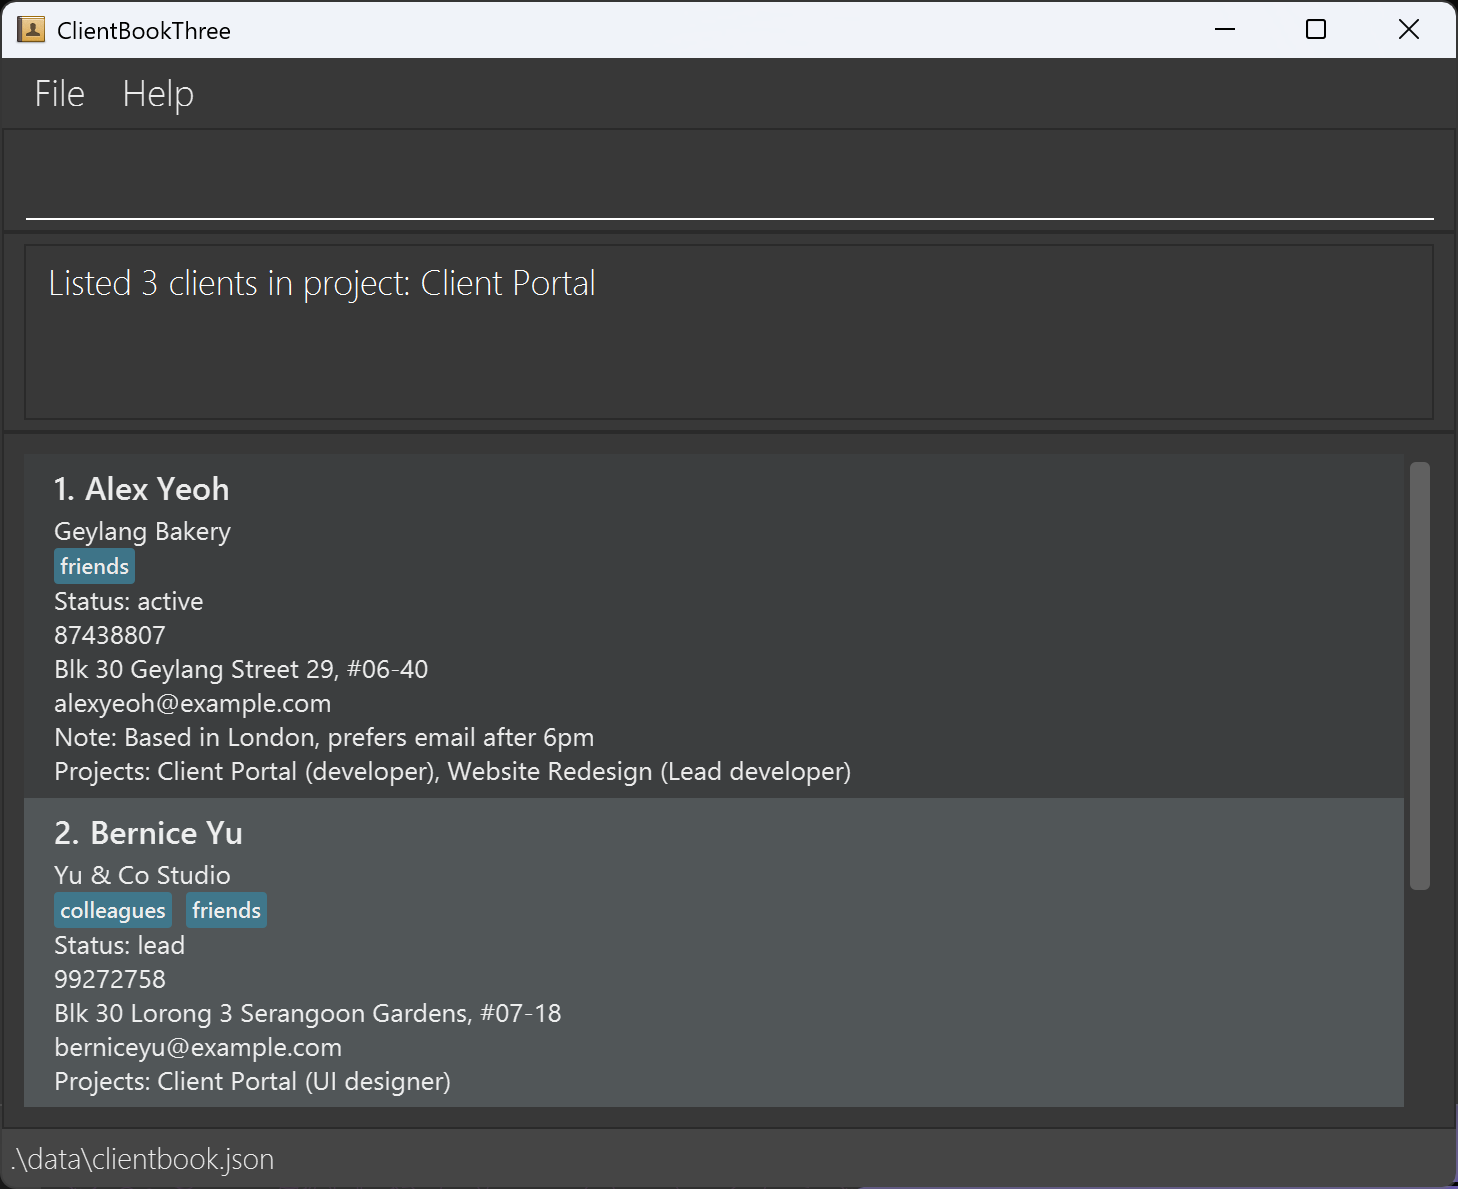
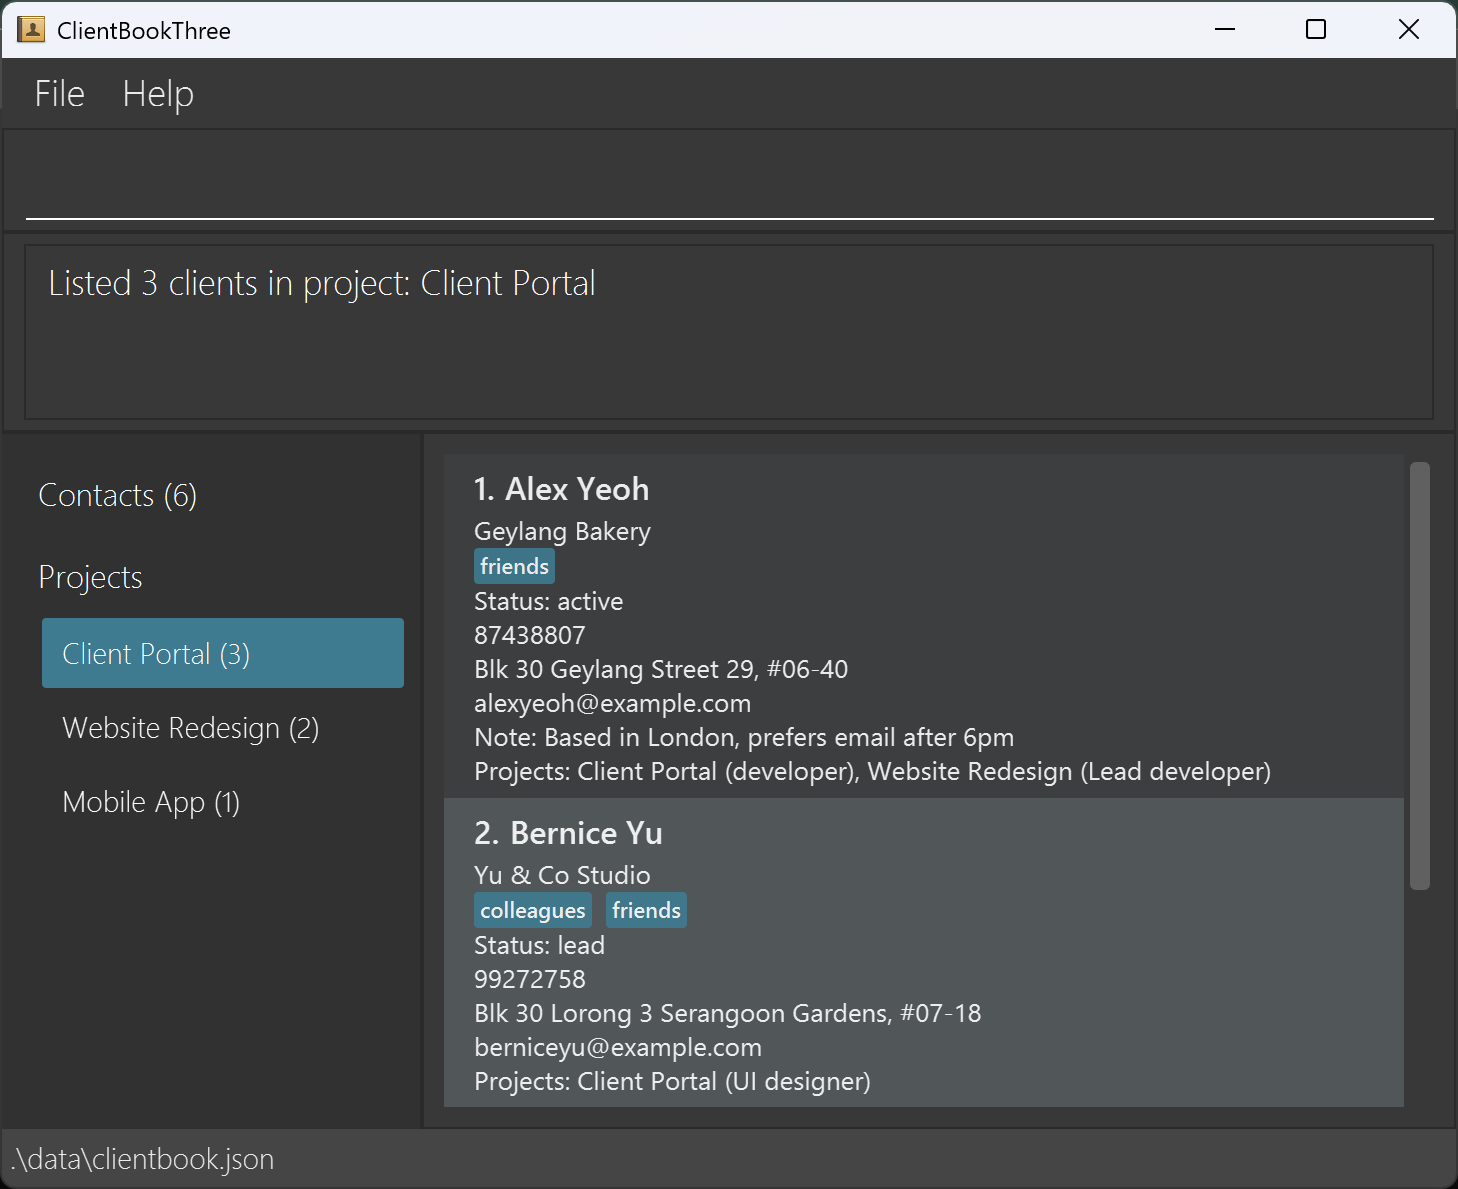
Show the project sidebar in the screenshots and the UG
The landing page and Quick Start screenshots were taken before the
project sidebar (#101) was added, so they no longer matched the app,
and the UG didn't explain the sidebar.

Let's retake both screenshots with the sidebar, and add a UG section
saying what clicking Contacts or a project does.

diff --git a/docs/UserGuide.md b/docs/UserGuide.md
@@ -20,7 +20,7 @@ ClientBookThree is a **desktop app for freelance software developers to keep tra
 1. Copy the file to the folder you want to use as the _home folder_ for ClientBookThree. Your data is saved in a `data` folder inside it.
 
 1. Open a terminal, `cd` to the folder containing the JAR file, and run `java -jar clientbook.jar`.<br>
-   A window similar to the one below should appear in a few seconds. It starts with some sample contacts for you to try commands on.<br>
+   A window similar to the one below should appear in a few seconds. It starts with some sample contacts for you to try commands on. The sidebar on the left lists your projects once you create some.<br>
    <img src="images/quickStart.png" width="600" alt="ClientBookThree on first launch, showing sample contacts" />
 
 1. Type a command in the command box and press Enter to execute it. For example, type **`help`** and press Enter to open the help window.<br>
@@ -204,6 +204,16 @@ Examples:
 
 * `project view Client Portal` shows only the clients in `Client Portal`.
 * `project view client   portal` does the same, since matching ignores case and extra spaces.
+
+### Switching between contacts and projects with the sidebar
+
+The sidebar on the left of the window shows **Contacts** and every project, each with its number of clients, e.g. *Client Portal (3)*.
+
+* Click a project to show its clients. This is the same as `project view PROJECT`.
+* Click **Contacts** to show every contact again. This is the same as `list`.
+* The current view is highlighted. After `find` or `list s/STATUS`, nothing is highlighted, since the list shows neither all contacts nor one project.
+* The sidebar updates straight away when projects or their clients change. If there are many projects, scroll the project list.
+* After clicking, you can keep typing commands: the command box is ready for input.
 
 ### Listing all projects: `project all`
 
